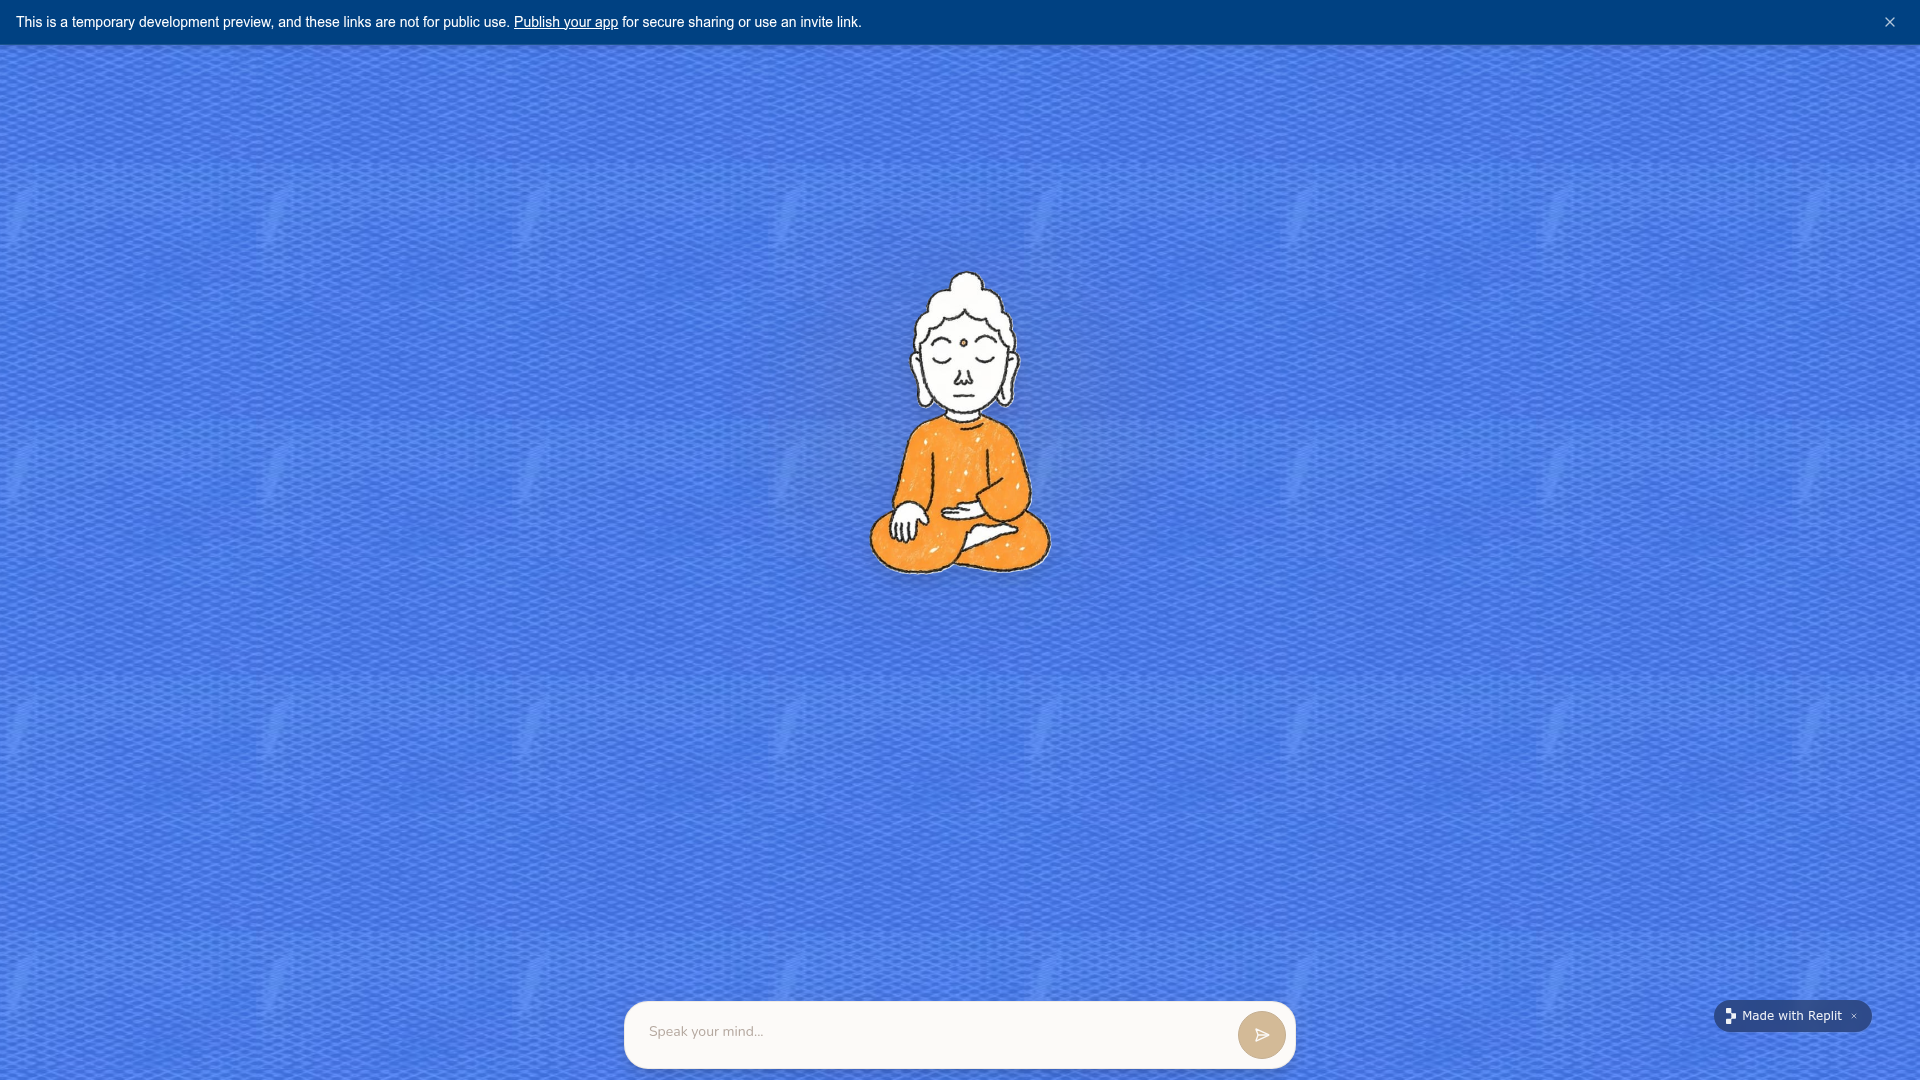
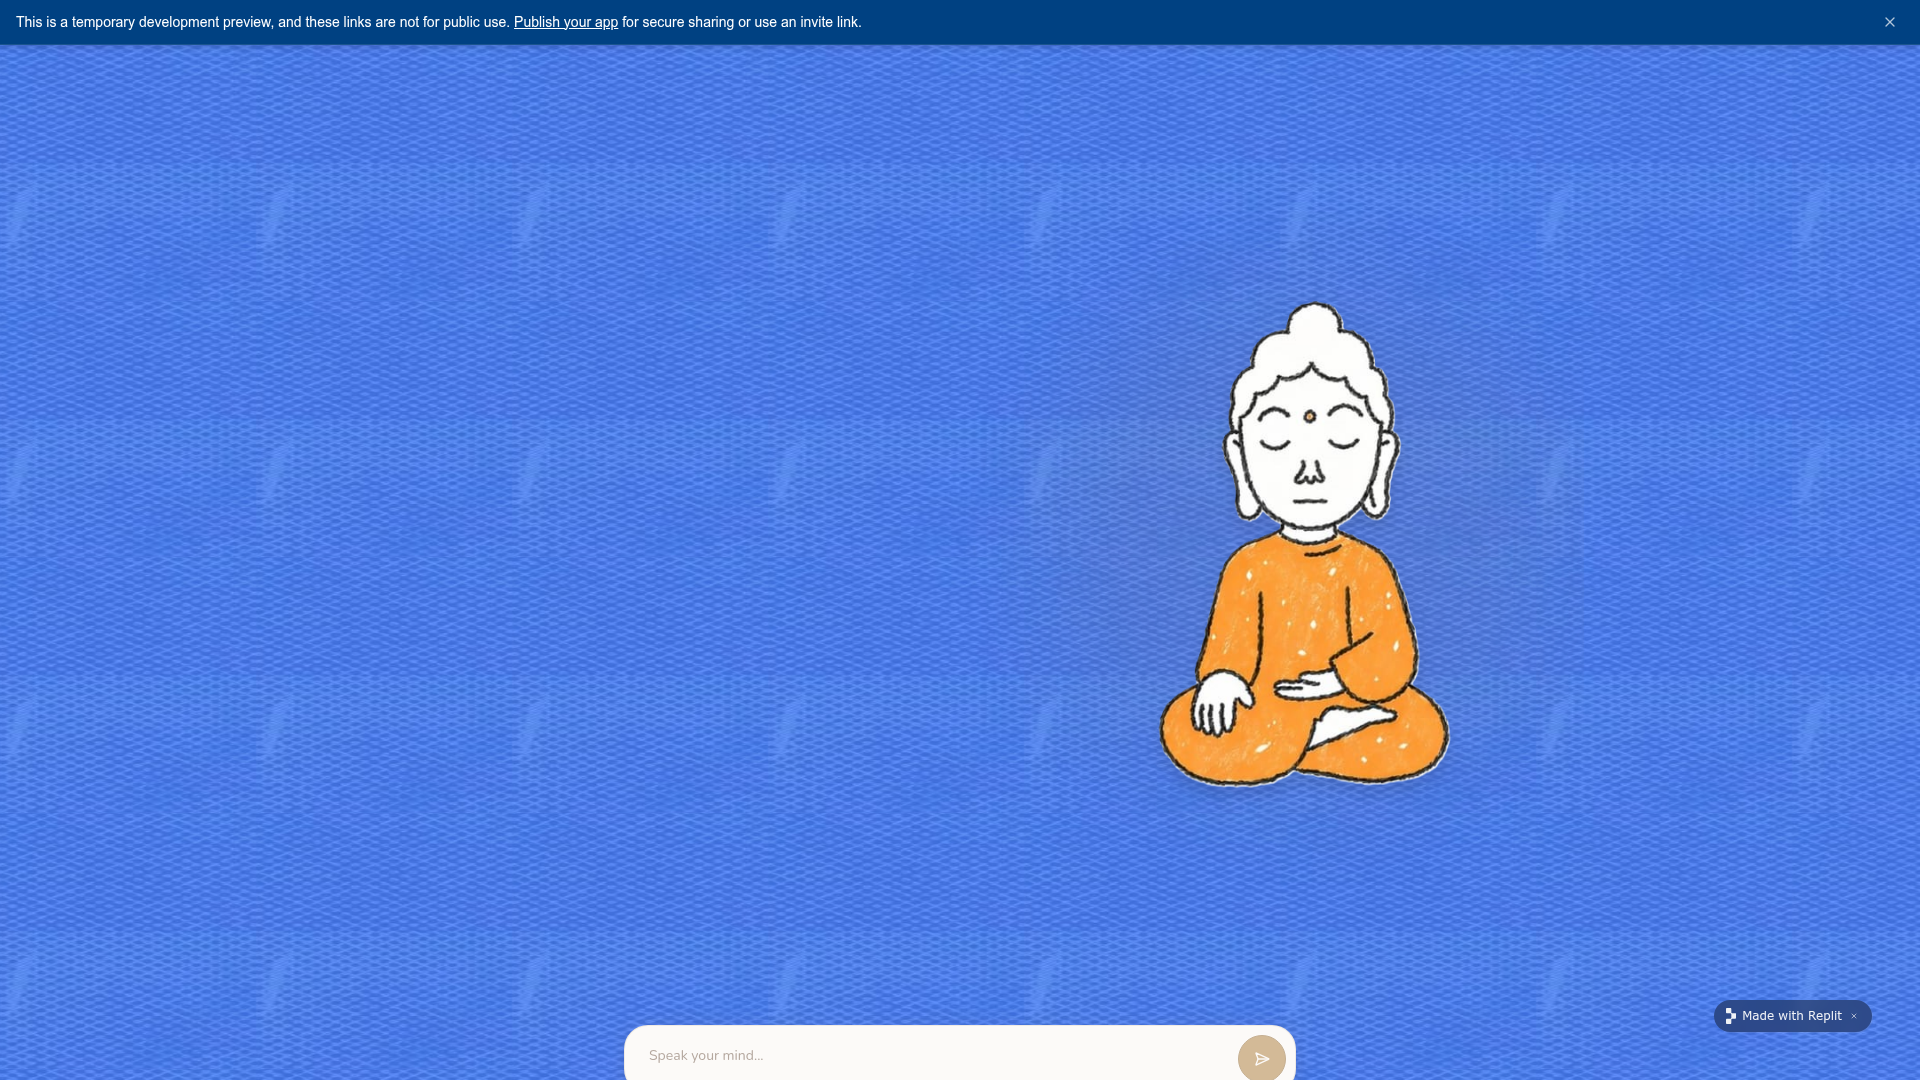
Rearrange layout to position chat on left and Buddha on right
Update component structure and SVG paths to achieve a two-column layout with an enlarged Buddha sprite on the right, and adjust speech bubble tails to point towards Buddha.

Replit-Commit-Author: Agent
Replit-Commit-Session-Id: 6ad3b098-38c9-43ad-b607-0d92f6dd99b6
Replit-Commit-Checkpoint-Type: full_checkpoint
Replit-Commit-Event-Id: ad36dc4f-0105-42f1-ac90-e836f2868515
Replit-Commit-Screenshot-Url: https://storage.googleapis.com/screenshot-production-us-central1/9fb33537-da3c-4175-9d7a-393c4fcb8ba4/6ad3b098-38c9-43ad-b607-0d92f6dd99b6/djEX29w
Replit-Helium-Checkpoint-Created: true

Changed region(s): [[0.5938, 0.275, 0.7812, 0.7333], [0.3125, 0.9167, 0.6875, 1.0], [0.4375, 0.2444, 0.5625, 0.55]]

diff --git a/artifacts/buddha-chat/src/pages/home.tsx b/artifacts/buddha-chat/src/pages/home.tsx
@@ -86,48 +86,52 @@ export default function Home() {
         backgroundSize: "256px 256px",
       }}
     >
-      <main className="flex-1 flex flex-col items-center w-full max-w-5xl mx-auto px-4 py-6 md:py-10 z-10">
-        {/* Buddha + comic bubble */}
-        <div className="mt-4 md:mt-8 mb-6 md:mb-10 flex flex-col items-center w-full">
-          <div className="w-full flex justify-center min-h-[8rem] md:min-h-[10rem] items-end pb-6">
-            <AnimatePresence mode="wait">
-              {lastBuddha && lastBuddha.content.length > 0 ? (
-                <LatestThought
-                  key={lastBuddha.id}
-                  text={lastBuddha.content}
-                  isStreaming={!!lastBuddha.isStreaming}
-                  mood={moodForState(buddhaState)}
-                />
-              ) : isTyping ? (
-                <ThinkingThought key="thinking" />
-              ) : null}
-            </AnimatePresence>
+      <main className="flex-1 flex flex-col w-full max-w-7xl mx-auto px-4 py-4 md:py-6 z-10 min-h-[100dvh]">
+        {/* Two-column area: chat list on the left, buddha + floating bubble on the right */}
+        <div className="flex-1 flex flex-col md:flex-row gap-4 md:gap-6 overflow-hidden">
+          {/* LEFT: Conversation history */}
+          <div
+            ref={scrollRef}
+            className="w-full md:w-2/5 md:max-w-md overflow-y-auto no-scrollbar order-2 md:order-1"
+            style={{
+              maskImage:
+                "linear-gradient(to bottom, transparent, black 6%, black 94%, transparent)",
+              WebkitMaskImage:
+                "-webkit-linear-gradient(top, transparent, black 6%, black 94%, transparent)",
+            }}
+          >
+            <div className="min-h-full flex flex-col justify-end pb-4 pr-2">
+              <ChatMessageList
+                messages={messages}
+                isTyping={isTyping}
+                hideLatestBuddha
+              />
+            </div>
           </div>
 
-          <BuddhaSprite state={buddhaState} />
-        </div>
+          {/* RIGHT: Buddha + floating bubble (tail points right at buddha) */}
+          <div className="flex-1 flex items-center justify-end gap-2 md:gap-4 pr-2 md:pr-6 order-1 md:order-2 min-h-[20rem]">
+            {/* Reserved bubble slot so buddha doesn't shift when it appears */}
+            <div className="flex-1 max-w-[22rem] md:max-w-[26rem] flex justify-end items-center">
+              <AnimatePresence mode="wait">
+                {lastBuddha && lastBuddha.content.length > 0 ? (
+                  <LatestThought
+                    key={lastBuddha.id}
+                    text={lastBuddha.content}
+                    isStreaming={!!lastBuddha.isStreaming}
+                    mood={moodForState(buddhaState)}
+                  />
+                ) : isTyping ? (
+                  <ThinkingThought key="thinking" />
+                ) : null}
+              </AnimatePresence>
+            </div>
 
-        {/* Conversation history */}
-        <div
-          ref={scrollRef}
-          className="flex-1 w-full overflow-y-auto mb-6 no-scrollbar"
-          style={{
-            maskImage:
-              "linear-gradient(to bottom, transparent, black 5%, black 95%, transparent)",
-            WebkitMaskImage:
-              "-webkit-linear-gradient(top, transparent, black 5%, black 95%, transparent)",
-          }}
-        >
-          <div className="min-h-full flex flex-col justify-end pb-4">
-            <ChatMessageList
-              messages={messages}
-              isTyping={isTyping}
-              hideLatestBuddha
-            />
+            <BuddhaSprite state={buddhaState} size="xl" />
           </div>
         </div>
 
-        <div className="w-full shrink-0 pt-2 pb-4">
+        <div className="w-full shrink-0 pt-3 pb-2">
           <ChatInput onSendMessage={sendMessage} disabled={isTyping} />
         </div>
       </main>

diff --git a/artifacts/buddha-chat/src/components/comic-bubble.tsx b/artifacts/buddha-chat/src/components/comic-bubble.tsx
@@ -6,9 +6,9 @@ export type BubbleMood = "speak" | "think" | "bless" | "refuse";
 
 /* ---------------- Hand-tuned bubble paths (viewBox 0 0 400 200) ---------------- */
 
-// Speech bubble: rounded oval with a pointed tail at bottom-left.
+// Speech bubble: rounded oval with a pointed tail on the RIGHT (pointing at buddha).
 const SPEAK_PATH =
-  "M 50 30 C 22 36 14 62 14 96 C 14 130 24 156 56 166 C 80 170 110 170 130 170 L 134 197 L 168 170 L 340 170 C 372 165 388 144 388 105 C 388 64 376 34 346 27 C 290 17 100 22 50 30 Z";
+  "M 45 30 C 20 36 12 62 12 96 C 12 130 22 156 52 166 C 95 170 250 170 305 170 C 335 168 348 148 348 118 L 392 100 L 348 84 C 348 62 338 34 310 27 C 260 17 95 22 45 30 Z";
 
 // Cloud / thought bubble: scalloped edges all around.
 const THINK_PATH =
@@ -56,7 +56,8 @@ interface ComicBubbleProps {
 }
 
 const PADDING_BY_MOOD: Record<BubbleMood, string> = {
-  speak: "px-12 pt-7 pb-14",
+  // extra right padding leaves room for the speech-tail jutting right
+  speak: "pl-10 pr-16 py-7",
   think: "px-12 py-9",
   bless: "px-14 py-10",
   refuse: "px-20 py-12",
@@ -163,14 +164,14 @@ export function ComicBubble({
   );
 }
 
-/** Three little hand-drawn circles trailing down to the buddha. */
+/** Three little hand-drawn circles trailing rightward toward the buddha. */
 function ComicTrail() {
   return (
     <svg
-      width="40"
-      height="60"
-      viewBox="0 0 40 60"
-      className="absolute left-1/2 -translate-x-1/2 -bottom-12 overflow-visible"
+      width="70"
+      height="40"
+      viewBox="0 0 70 40"
+      className="absolute -right-16 top-1/2 -translate-y-1/2 overflow-visible"
       aria-hidden="true"
     >
       <g
@@ -179,9 +180,9 @@ function ComicTrail() {
         strokeWidth="2"
         vectorEffect="non-scaling-stroke"
       >
-        <circle cx="20" cy="10" r="9" />
-        <circle cx="22" cy="32" r="6" />
-        <circle cx="19" cy="50" r="4" />
+        <circle cx="10" cy="20" r="9" />
+        <circle cx="34" cy="22" r="6" />
+        <circle cx="56" cy="20" r="4" />
       </g>
     </svg>
   );

diff --git a/artifacts/buddha-chat/src/components/buddha-sprite.tsx b/artifacts/buddha-chat/src/components/buddha-sprite.tsx
@@ -12,11 +12,18 @@ const SPRITE_MAP: Record<BuddhaState, string> = {
 
 interface BuddhaSpriteProps {
   state: BuddhaState;
+  size?: "md" | "lg" | "xl";
 }
 
-export function BuddhaSprite({ state }: BuddhaSpriteProps) {
+const SIZE_CLASSES: Record<NonNullable<BuddhaSpriteProps["size"]>, string> = {
+  md: "w-64 h-64 md:w-80 md:h-80",
+  lg: "w-72 h-72 md:w-96 md:h-96",
+  xl: "w-80 h-80 md:w-[28rem] md:h-[28rem] lg:w-[32rem] lg:h-[32rem]",
+};
+
+export function BuddhaSprite({ state, size = "xl" }: BuddhaSpriteProps) {
   return (
-    <div className="relative w-64 h-64 md:w-80 md:h-80 mx-auto flex items-center justify-center">
+    <div className={`relative ${SIZE_CLASSES[size]} flex items-center justify-center`}>
       {/* Subtle glowing aura */}
       <motion.div
         className="absolute inset-0 rounded-full bg-primary/10 dark:bg-primary/20 blur-3xl"
